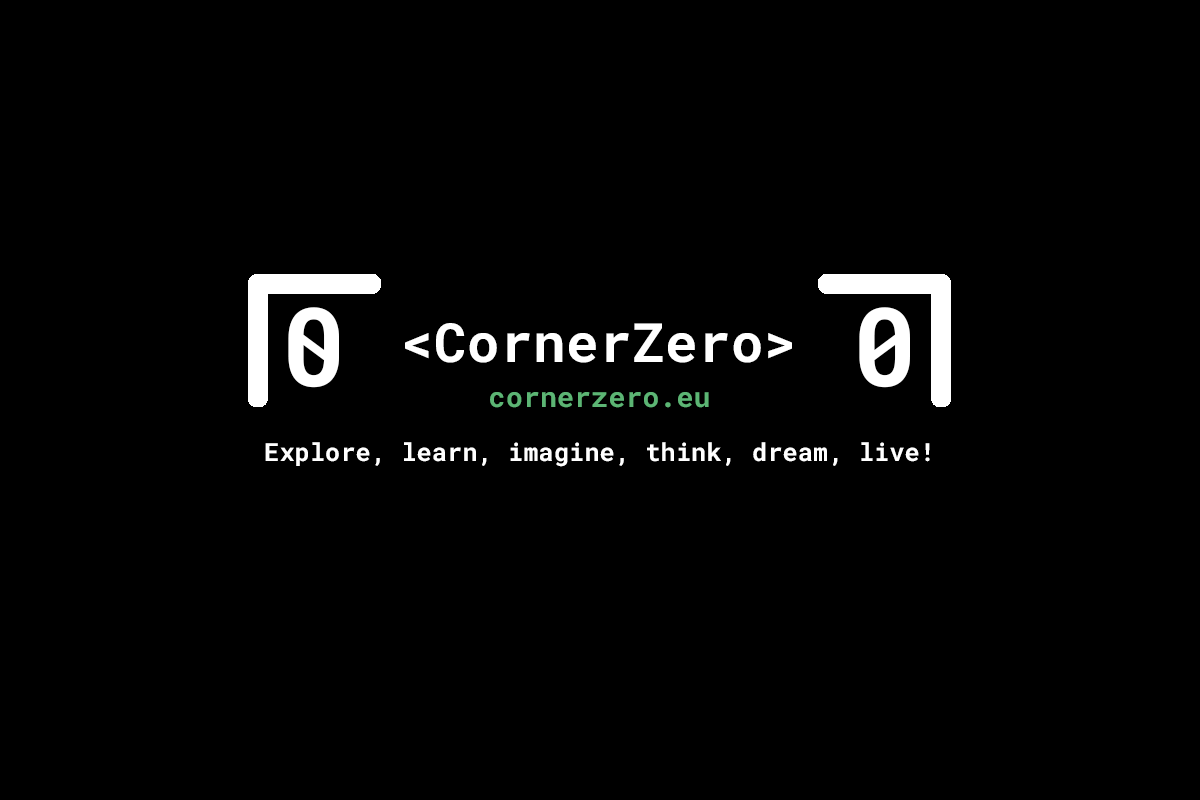
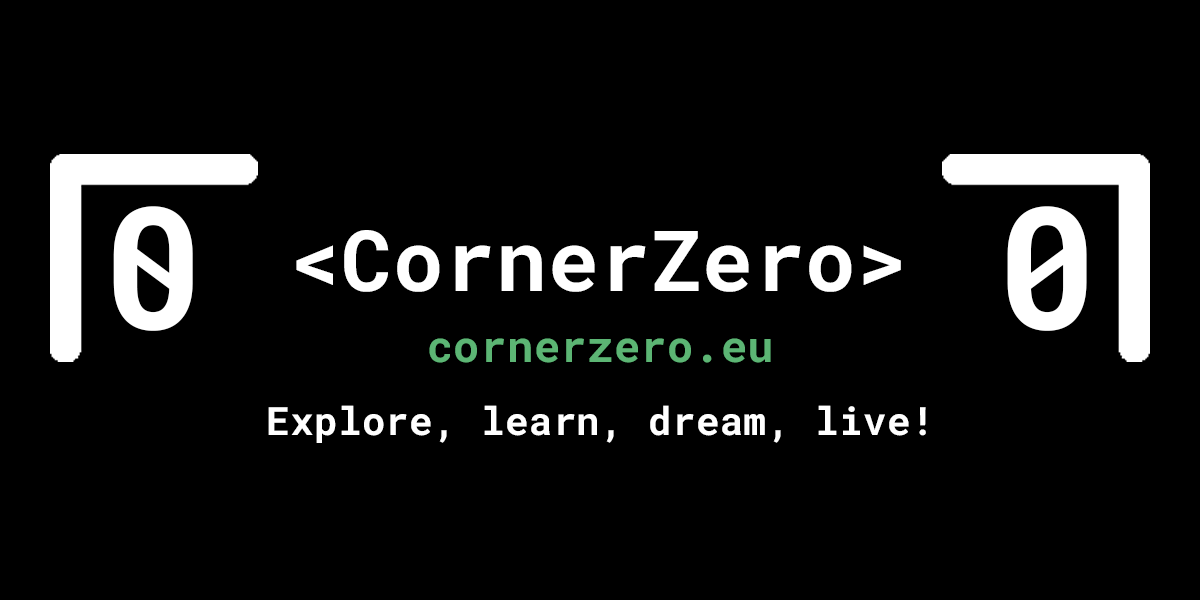
push-cornerzero

diff --git a/src/pages/Corners.jsx b/src/pages/Corners.jsx
@@ -4,8 +4,7 @@ import { useMediaQuery } from '@mui/material';
 import corner from "../styles/img/corner.png";
 import PostPreview from '../components/PostPreview';
 import { Typography, Select, Input, Button, Box } from '@mui/material';
-import icon from "../styles/img/icon.png";
-import iconright from "../styles/img/iconright.png";
+import cornerright from "../styles/img/cornerright.png";
 import { FontAwesomeIcon } from '@fortawesome/react-fontawesome';
 import {faArrowLeft, faEnvelope, faHandPointLeft, faHandPointRight, faMagnifyingGlass} from "@fortawesome/free-solid-svg-icons";
 import {faArrowRight} from "@fortawesome/free-solid-svg-icons";
@@ -47,15 +46,16 @@ function Corner() {
 
     return (
         <div style={{ width: isMobile ? '340px' : undefined, alignItems: "center", marginTop: "1rem" }}>
-            <Typography style={{
-                fontSize: isMobile ? "18px" : '30px',
+  <Typography style={{
+                fontSize: "20px",
                 color: "white",
                 fontWeight: 'bolder',
-                textAlign: "center"
+                textAlign: "center",
+                marginBottom: "1rem"
             }}>
-                 <img style={{ width: isMobile ? "22px" : "40px", objectFit: 'contain' }} src={iconright} alt='icon'></img>
+                 <img style={{ width: isMobile ? "22px" : "40px", objectFit: 'contain' }} src={corner} alt='icon'></img>
                  - Around the corner -
-                <img style={{ width: isMobile ? "22px" : "40px", objectFit: 'contain' }} src={icon} alt='icon'></img>
+                <img style={{ width: isMobile ? "22px" : "40px", objectFit: 'contain' }} src={cornerright} alt='icon'></img>
 
             </Typography>
 

diff --git a/src/components/PostPreview.jsx b/src/components/PostPreview.jsx
@@ -14,12 +14,11 @@ function PostPreview({ post }) {
   const editorState = EditorState.createWithContent(contentFromRaw);
   const mobileWidth = 600;
   const isMobile = useMediaQuery(`(max-width: ${mobileWidth}px)`);
-  // Estrai il testo e troncalo
   const plainText = editorState.getCurrentContent().getPlainText();
   const truncatedText = plainText.length > 150 ? plainText.substring(0, 150) + "..." : plainText;
 
   return (
-    <Card style={{marginTop: "1rem",       width: isMobile ? '100%' : '650px',
+    <Card style={{marginTop: "1rem", width: isMobile ? '100%' : '650px',
     background: 'rgb(0,0,0)',
 background: 'linear-gradient(90deg, rgba(0,0,0,1) 0%, rgba(56,56,56,0.7587827367275035) 100%)'
     
@@ -67,7 +66,7 @@ background: 'linear-gradient(90deg, rgba(0,0,0,1) 0%, rgba(56,56,56,0.7587827367
           alignItems: "center",
           borderRadius: 0
         }}>
-          <div style={{display: "flex", justifyContent: 'center', alignItems: "center", gap: '1rem'}}>
+          <div style={{display: "flex", justifyContent: 'center', alignItems: "center", gap: '1rem', marginTop: "8px"}}>
            <span style={{
             color: 'grey'
           }}>
@@ -82,7 +81,9 @@ background: 'linear-gradient(90deg, rgba(0,0,0,1) 0%, rgba(56,56,56,0.7587827367
           </Typography>
           </div>
           <Button style={{
-            backgroundColor: '#183D3D'
+            backgroundColor: '#183D3D',
+            height: '30px',
+            marginTop: "8px"
           }} size="small" color="primary">
             <Link to={`/posts/${post._id}`} style={{textDecoration: 'none', color: "#5CB574"}}>Open</Link>
           </Button>

diff --git a/src/pages/Homepage.jsx b/src/pages/Homepage.jsx
@@ -11,7 +11,7 @@ import Footer from '../components/fixed/Footer';
 import LastFiveLikedPosts from '../components/LastFiveLikedPosts';
 import { FontAwesomeIcon } from '@fortawesome/react-fontawesome';
 import { faGreaterThan } from '@fortawesome/free-solid-svg-icons';
-import { fontSize } from '@mui/system';
+import { display, fontSize } from '@mui/system';
 
 function Homepage() {
   const [postCount, setPostCount] = useState(0);
@@ -22,7 +22,7 @@ function Homepage() {
   const isMobile = useMediaQuery(`(max-width: ${mobileWidth}px)`);
 
   const [currentText, setCurrentText] = useState('');
-  const fullText = "Explore, learn, imagine, think, dream, live!";
+  const fullText = "Explore, learn, dream, live!";
 
   useEffect(() => {
     let index = 0;
@@ -94,8 +94,9 @@ function Homepage() {
         <h5>Dive into the Corners 
           <FontAwesomeIcon style={{ marginLeft: "8px", marginRight: "5px" }} icon={faGreaterThan}></FontAwesomeIcon>!
           Instant access.</h5>
-
-          <img src={bannerzero} alt='bannerzero' style={{height:  "80px", borderRadius: '0.4rem', objectFit: "contain"}}></img>
+          {!isMobile && ( 
+          <img src={bannerzero} alt='bannerzero' style={{height: "80px", borderRadius: '0.4rem', objectFit: "contain"}}></img>
+          )}
           </div>
       </div>
 

diff --git a/public/index.html b/public/index.html
@@ -5,8 +5,8 @@
     <link rel="icon" href="%PUBLIC_URL%/favicon.ico" />
     <meta name="viewport" content="width=device-width, initial-scale=1" />
     <meta name="theme-color" content="#000000" />
-    <meta name="description" content="Explore, learn, imagine, think, dream, live!" />
-    <meta property="og:image" content="https://imageupload.io/ib/UOD9TZAk0rWkd6B_1693315137.png">
+    <meta name="description" content="Explore, learn, dream, live!" />
+    <meta property="og:image" content="https://i.postimg.cc/MK2LV9rz/meta.png">
     <link rel="apple-touch-icon" href="%PUBLIC_URL%/logo192.png" />
     <!--
       manifest.json provides metadata used when your web app is installed on a
